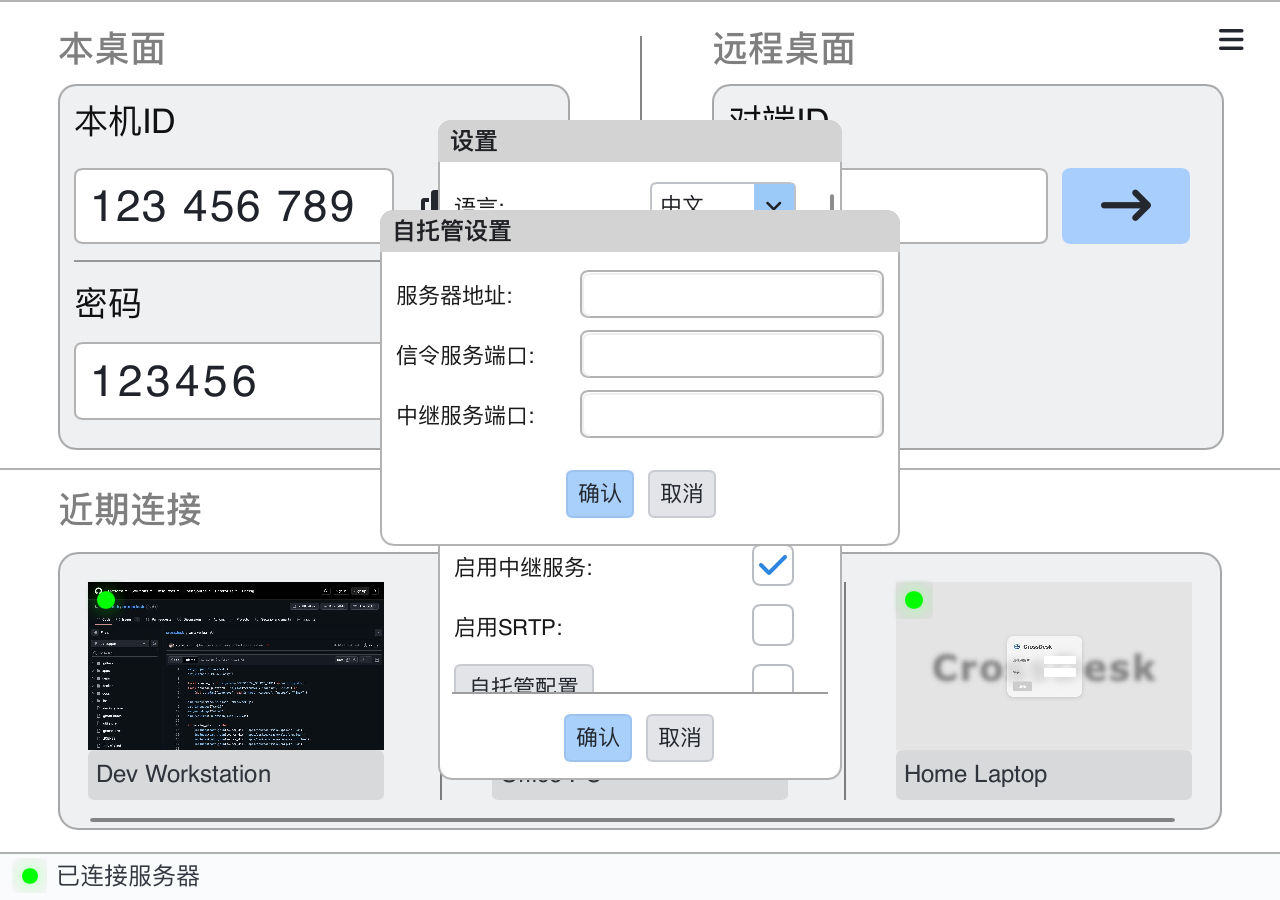
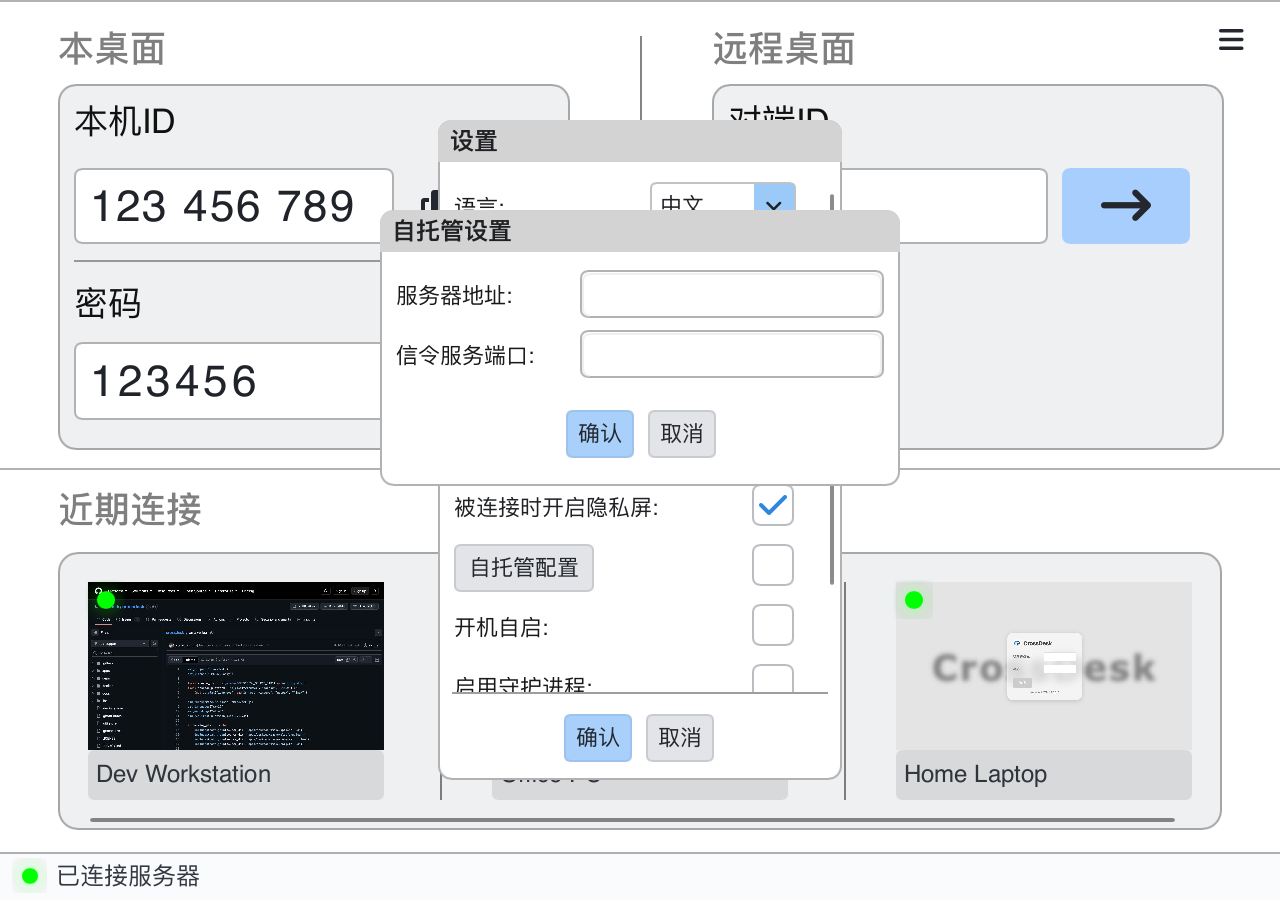
[docs] refresh README guides and desktop and web screenshots

diff --git a/apps/desktop/tests/slint_ui_smoke_test.cpp b/apps/desktop/tests/slint_ui_smoke_test.cpp
@@ -4,6 +4,7 @@
 
 #include <cassert>
 #include <charconv>
+#include <chrono>
 #include <cstdlib>
 #include <fstream>
 #include <iostream>
@@ -146,6 +147,12 @@ bool ConfigureDocumentationDemo(
           std::move(connections)));
   window->set_signal_connected(true);
   window->set_hardware_codec_available(true);
+#if defined(_WIN32) || defined(__APPLE__) || defined(__linux__)
+  window->set_privacy_setting_available(true);
+#endif
+  if (options.page == "about") {
+    window->set_current_version("v1.5.2");
+  }
   return true;
 }
 
@@ -373,8 +380,34 @@ int RunCaptureMode(
   server->hide();
 
   slint::Window *capture_window = &window->window();
-  if (options.page == "stream") {
+  const bool capture_stream =
+      options.page == "stream" || options.page == "stream-video-settings";
+  if (capture_stream) {
     ConfigureStreamCapturePage(stream, options.language);
+    if (!options.demo_assets_path.empty()) {
+      // Reuse a public page capture as an explicitly illustrative remote frame.
+      const auto frame = slint::Image::load_from_path(slint::SharedString(
+          (options.demo_assets_path + "/fixtures/website.png").c_str()));
+      if (frame.size().width == 0 || frame.size().height == 0) {
+        return 8;
+      }
+      stream->set_frame(frame);
+      crossdesk::ui::StreamTab tab;
+      tab.remote_id = "246813579";
+      tab.title = "Office PC";
+      tab.connected = true;
+      stream->set_tabs(
+          std::make_shared<slint::VectorModel<crossdesk::ui::StreamTab>>(
+              std::vector{tab}));
+      stream->set_privacy_can_toggle(true);
+      stream->set_privacy_off(true);
+      stream->window().set_size(
+          slint::LogicalSize(slint::Size<float>{960.0f, 600.0f}));
+    }
+    if (options.page == "stream-video-settings") {
+      stream->set_video_settings_enabled(true);
+      stream->set_video_menu_open(true);
+    }
     window->hide();
     stream->show();
     capture_window = &stream->window();
@@ -388,12 +421,21 @@ int RunCaptureMode(
   }
 
   if (!options.snapshot_path.empty()) {
-    return WriteWindowSnapshot(*capture_window, options.snapshot_path.c_str())
-               ? 0
-               : 7;
+    // Let the native backend apply its window size and display scale before
+    // taking the snapshot; capturing immediately after show() can yield 1x.
+    bool snapshot_written = false;
+    slint::Timer snapshot_timer;
+    snapshot_timer.start(slint::TimerMode::SingleShot,
+                         std::chrono::milliseconds(250), [&] {
+      snapshot_written =
+          WriteWindowSnapshot(*capture_window, options.snapshot_path.c_str());
+      slint::quit_event_loop();
+    });
+    slint::run_event_loop();
+    return snapshot_written ? 0 : 7;
   }
 
-  if (options.page == "stream" || options.page == "server") {
+  if (capture_stream || options.page == "server") {
     slint::run_event_loop();
   } else {
     window->run();

diff --git a/README_EN.md b/README_EN.md
@@ -48,12 +48,13 @@ See the [screenshot notes](docs/images/README.md) for image sources and refresh 
 | Capability | Current support |
 | --- | --- |
 | Cross-platform control | Windows / macOS / Linux desktop control; browser and native iOS controllers |
-| Live video and audio | H.264 / AV1, 30 / 60 fps settings, hardware codec options, and remote audio; availability depends on hardware and build configuration |
+| Live video and audio | H.264 / AV1, hardware codecs, and remote audio; adjust quality, 30 / 60 fps, and video preference during a session |
 | Devices and displays | Recent connections, device aliases, session tabs, and remote display switching |
 | Input and sharing | Keyboard/mouse input, remote cursor synchronization, shortcuts, text clipboard synchronization, and file transfer |
-| Networking and deployment | Direct P2P connections, TURN relay, SRTP media encryption, and self-hosted signaling/relay services |
+| Networking and deployment | Direct P2P connections, TURN relay and forced relay, SRTP media encryption, and self-hosted signaling/relay services |
+| Privacy screen | Enable automatically when connected to, or toggle from the session toolbar; availability depends on the host OS and capture method |
 | Windows protected desktops | CrossDesk Service forwards input on lock screens, sign-in screens, and secure desktops |
-| Linux headless operation | Reuse existing desktops and applications or create separate Xvfb desktops, with capture and input; see [setup](docs/HEADLESS_EN.md) |
+| Linux headless operation | Reuse existing desktops and applications or create separate Xvfb desktops; use the terminal console to check status and change passwords or settings; see [setup](docs/HEADLESS_EN.md) |
 
 Controls and capabilities vary by client. Desktop controls are described below; see the [iOS guide](apps/ios/README.md) for native mobile features.
 
@@ -90,7 +91,7 @@ sudo apt install "./crossdesk-linux-amd64-<version>.deb"
 3. **Verify the password.** Enter the host's current connection password when prompted and confirm. Select **Remember password** if you want to save it.
 4. **Reconnect later.** Previously connected devices appear under **Recent Connections**. Reconnect from a card, edit its alias, or remove its record.
 
-The eye button shows or hides the local password; the pencil button changes it. Use **6 ASCII letters or digits** and stay connected to the server while changing it. Wait for the change to succeed and the client to reconnect, then copy the current password. Controllers that saved the old password must enter it again.
+The eye button shows or hides the local password, the refresh button generates a new random password, and the pencil button lets you edit it. Passwords use **6 ASCII letters or digits**. Stay connected to the server when editing or refreshing a password. Wait for the change to succeed and the client to reconnect, then copy the current password. Controllers that saved the old password must enter it again.
 
 ### Connect from a browser
 
@@ -113,31 +114,51 @@ Switch devices using session tabs. Expand the control bar if it is collapsed, an
 | Mouse | Enable / release remote mouse control |
 | Speaker | Play / mute remote audio |
 | Folder | Select a file to send and view transfer progress |
-| Network statistics | Inspect traffic, packet loss, frame rate, resolution, and direct / relay mode |
+| Video settings | Adjust video quality, capture frame rate, and video preference during the current session |
+| Network statistics | Inspect traffic, packet loss, frame rate, resolution, direct / relay mode, and encryption status |
+| Privacy screen | Enable or disable the host's privacy screen; hover to see its status and available actions |
 | Fullscreen | Enter / exit fullscreen |
 | Disconnect | End the current remote session |
 
 Desktop clients synchronize text clipboard contents. Configure the receiving directory under **Settings → File Save Path**. Closing the main window hides it and keeps the app running; use the system tray or menu-bar exit command to quit completely.
 
-<a id="settings"></a>
+### Adjust video during a session
 
-## Video and connection settings
-
-Open **☰ → Settings** in the top-right corner and click **OK** to save. Configure the session before connecting; some settings are disabled during an active session. Scroll down for self-hosting, startup behavior, and the file save path.
+After connecting, open **Video settings** (the sliders icon) in the toolbar. Choose low / medium / high quality, **30 / 60 fps**, and frame-rate priority / quality priority / balanced adaptation. Changes are sent to the current host without reconnecting; actual results depend on the network, device, and encoder. For older hosts that do not support live video settings, the menu explains the limitation and disables the options.
 
 <p align="center">
-  <img src="docs/images/desktop-settings-en.png" width="720" alt="Example settings interface" />
+  <img src="docs/images/desktop-stream-video-settings-en.png" width="800" alt="Current session video menu with quality, capture frame rate, and video preference; the background is a public page used for demonstration" />
+</p>
+
+<a id="settings"></a>
+
+## Client settings and updates
+
+Open **☰ → Settings** in the top-right corner and click **OK** to save. Configure codecs and connections before connecting; some settings are disabled during an active session. Scroll down for self-hosting, startup behavior, and the file save path. Adjust quality, frame rate, and video preference from the remote session toolbar.
+
+<p align="center">
+  <img src="docs/images/desktop-settings-en.png" width="720" alt="Current client settings with codec, hardware codecs, TURN, forced relay, and automatic privacy screen options" />
 </p>
 
 | Setting | Purpose |
 | --- | --- |
-| Video Quality / Video Capture Frame Rate | Low, medium, or high quality and 30 / 60 fps; actual performance depends on the connection and device |
-| Video Preference | Choose frame-rate priority, quality priority, or balanced adaptation |
+| Language | 中文, English, Русский |
+| Capture Method (Windows) | Auto / DXGI / WGC / GDI; choose Auto for automatic headless adaptation |
 | Video Encode Format | H.264 / AV1; hardware codec availability depends on the platform, device, and build options |
 | Enable TURN Service | Allow relay-assisted connections; check this setting if P2P fails |
-| Self-Hosted Config | Set the host, signaling port, and TURN port, then enable the checkbox |
+| Force Relay | Require relay connections when TURN is enabled; turning TURN off also disables this option |
+| Privacy screen on connect | Automatically enable privacy when this computer is controlled remotely; the controller can toggle it from the session toolbar |
+| Self-Hosted Config | Set the server address and signaling port, then enable the checkbox |
 | Auto Start / Enable Daemon | Configure startup and process supervision; restart as indicated by the UI |
 | File Save Path | Choose where received files are saved |
+
+### Check for updates
+
+The client checks for updates in the background after launch. A new version adds an update indicator to the main window menu. Open **☰ → About** to view the version or click **Check for updates** to check manually. When an update is available, you can view its release notes and open the download page.
+
+<p align="center">
+  <img src="docs/images/desktop-about-en.png" width="720" alt="About dialog with the Check for updates button; version and check result are demonstration data" />
+</p>
 
 <a id="ios"></a>
 
@@ -204,8 +225,6 @@ Host your own signaling and TURN services, then enter their connection details u
 Thanks to [HelloGitHub](https://hellogithub.com/), [Ruanyf Weekly](https://github.com/ruanyf/weekly), and the [LinuxDo](https://linux.do) community for featuring CrossDesk and contributing feedback.
 
 CrossDesk is licensed under [GPL-3.0](LICENSE). See the [Privacy Policy](PRIVACY.md#english).
-
-The Windows packages bundle the unmodified USB Mobile Monitor virtual display driver (usbmmidd_v2) by [Amyuni Technologies](https://www.amyuni.com/) for hosts without a monitor; its license is in `usbmmidd_v2\License.txt` in the install directory.
 
 ### Code signing policy
 

diff --git a/docs/images/README.md b/docs/images/README.md
@@ -4,14 +4,19 @@
 
 ## 来源 / Sources
 
-- 生成日期：2026-09-07。
-- 桌面 UI 源代码：`abc8f907`（`ios-support` 分支），Slint 1.17.1，macOS arm64；截图工具增加了可选的文档演示数据。
+- 桌面与 Web 首页截图生成日期：2026-09-25；`fixtures/source.png` 和 `fixtures/website.png` 保留 2026-09-07 的公开页面截图。
+- 桌面 UI 源代码：`f73a57ba` 加本次工具栏关闭状态斜杠渲染修复，Slint 1.17.1，macOS arm64；本次扩展截图工具以捕获会话画面设置，并等待窗口完成尺寸与缩放初始化后导出。
 - 桌面图片来自 [`slint_ui_smoke_test`](../../apps/desktop/tests/slint_ui_smoke_test.cpp) 的 UI 捕获模式，直接渲染仓库中的 Slint 组件；不是旧版本截图或重新绘制的界面。
 - 主窗口展示“已连接服务器”和三台在线设备的完整示例状态。ID `123 456 789`、密码 `123456`、连接状态及设备记录均为演示数据，不是真实设备凭据或真实远程会话。示例设置不代表应用运行时默认值。
+- 本次主窗口截图包含随机密码刷新按钮；设置截图包含强制中继与自动隐私屏选项；自托管弹窗仅显示服务器地址和信令端口。画质、帧率和画面偏好在会话工具栏的“画面设置”菜单中展示。
+- 会话截图使用 `fixtures/website.png` 作为示例远端画面，展示真实工具栏和打开的画面设置菜单，不建立远程连接。“关于”截图中的 `v1.5.2` 和“已是最新版本”均为演示数据，不代表对线上最新版本的检查结果。
+- 会话工具栏的隐私屏按钮展示“已关闭”状态。关闭标记使用直接绘制的斜线路径，避免软件渲染器将旋转矩形显示为竖线。
 - 设备缩略图使用可公开的页面截图：`fixtures/source.png` 来自 [CrossDesk 的 Xmake 源码页](https://github.com/kunkundi/crossdesk/blob/ios-support/xmake.lua)，`fixtures/website.png` 来自 [CrossDesk 官网](https://www.crossdesk.cn/)，第三张复用 `web-client.png`。它们用于展示缩略图效果，不代表这些页面正在对应的远程电脑上运行。
-- `web-client.png`：2026-09-07 在 [web.crossdesk.cn](https://web.crossdesk.cn/) 截取的连接首页，视口为 1280 × 720，没有发起远程连接。
+- `web-client.png`：2026-09-25 在 [web.crossdesk.cn](https://web.crossdesk.cn/) 重新截取的连接首页，页面显示版本 `2026.09.24.2`，视口为 1280 × 720。ID 与密码输入框为空，没有发起远程连接；使用该图片作为设备缩略图的桌面截图也已重新生成。
 
-Desktop images render the actual Slint components with an illustrative connected state and three populated recent-device cards. The thumbnails are public browser-page captures, not private remote desktops or evidence of live sessions. IDs, device names, statuses, and settings are demonstration data. The Web image captures the public connection page. Native iOS screenshots are not included because this update did not capture a signed app running on a physical device.
+Desktop images were refreshed on 2026-09-25 from UI source `f73a57ba`, using Slint 1.17.1 on macOS arm64. They render actual components with demonstration data, including the refreshed password controls, client settings, live video menu, and manual update check. The source-code and website fixtures remain public page captures from 2026-09-07. The Web connection page was recaptured on 2026-09-25 at 1280 × 720, showing version `2026.09.24.2` with empty credential fields; no remote connection was initiated. Desktop images using its thumbnail were regenerated as well. Desktop IDs, device names, settings, version numbers, and update results are illustrative. Native iOS screenshots are not included because this update did not capture a signed app running on a physical device.
+
+The session images also include this change's toolbar slash-rendering fix. The privacy button shows the off state using diagonal paths that render correctly without rectangle rotation.
 
 ## 文件 / Files
 
@@ -20,11 +25,15 @@ Desktop images render the actual Slint components with an illustrative connected
 | `desktop-main-zh.png` / `desktop-main-en.png` | Main window / 主窗口 | 中文 / English |
 | `desktop-settings-zh.png` / `desktop-settings-en.png` | Settings / 设置 | 中文 / English |
 | `desktop-self-hosted-zh.png` / `desktop-self-hosted-en.png` | Self-hosting / 自托管设置 | 中文 / English |
+| `desktop-stream-video-settings-zh.png` / `desktop-stream-video-settings-en.png` | Session toolbar and video settings / 会话工具栏与画面设置 | 中文 / English |
+| `desktop-about-zh.png` / `desktop-about-en.png` | About and manual update check / 关于与检查更新 | 中文 / English |
 | `web-client.png` | Web connection page / Web 连接首页 | 中文 |
 
-桌面图片为 1280 × 900 PNG，使用 2× 缩放保持文字清晰。Markdown 只设置展示宽度，保持原始比例。设置列表可滚动，截图仅展示首屏。演示配置显示硬件编解码器可用；实际可用性由平台、设备与构建决定。
+主窗口及其弹窗图片为 1280 × 900 PNG，会话图片为 1920 × 1200 PNG，均使用 2× 原生渲染缩放保持文字清晰，未放大旧图。Markdown 只设置展示宽度，保持原始比例。设置列表可滚动，截图仅展示首屏。演示配置显示硬件编解码器可用；实际可用性由平台、设备与构建决定。Windows 专属的采集方式与便携版服务入口不会出现在这些 macOS 截图中。
 
 ## 重新生成 / Regenerate
+
+更新 Web 图片时，在浏览器中打开 [web.crossdesk.cn](https://web.crossdesk.cn/)，等待连接表单和底部版本号加载完成，保持 ID 与密码为空，截取页面视口。当前图片使用 1280 × 720 视口；浏览器导出的 JPEG 仅转换为 PNG，未修改页面布局或内容。替换 `web-client.png` 后，重新生成下方桌面截图以同步设备卡片缩略图，并更新本页的日期与页面版本号。
 
 以下命令在仓库根目录、已完成依赖配置的 macOS 开发环境运行。`sips` 仅将 Slint 导出的 PPM 无损转换为 PNG，不修改 UI。其他平台可以使用支持 PPM 的图片格式转换工具。
 
@@ -36,7 +45,7 @@ mkdir -p build/readme-capture docs/images
 for locale in zh en; do
   language=0
   if [ "$locale" = en ]; then language=1; fi
-  for page in main settings self-hosted; do
+  for page in main settings self-hosted about stream-video-settings; do
     snapshot="$PWD/build/readme-capture/desktop-$page-$locale.ppm"
     SLINT_BACKEND=winit-software SLINT_SCALE_FACTOR=2 \
       CROSSDESK_UI_CAPTURE=1 \
@@ -51,6 +60,6 @@ for locale in zh en; do
 done
 ```
 
-`CROSSDESK_UI_CAPTURE_DEMO_ASSETS` 必须指向包含上述图片的目录。缺失图片会让捕获命令失败，避免再次导出空白缩略图；不设置该变量时，仍保留原有测试状态。
+`CROSSDESK_UI_CAPTURE_DEMO_ASSETS` 必须指向包含上述图片的目录。缺失图片会让捕获命令失败，避免再次导出空白缩略图；不设置该变量时，仍保留原有测试状态。捕获工具会先运行窗口事件循环，等待尺寸与缩放初始化；直接在 `show()` 后截图可能得到 1× 图片。
 
 捕获模式兼容 `/tmp/crossdesk-ui-capture-page` 和 `/tmp/crossdesk-ui-capture-language` 两个旧覆盖文件；如存在，它们会优先于环境变量，运行前请检查。更新后逐张检查文字、布局、敏感信息和文档引用，并同步修改本页日期与源码版本。

diff --git a/README.md b/README.md
@@ -48,12 +48,13 @@ CrossDesk 支持 Windows、macOS、Linux 之间的远程访问，也可从浏览
 | 能力 | 当前支持 |
 | --- | --- |
 | 跨平台控制 | Windows / macOS / Linux 桌面互控；浏览器与原生 iOS 作为控制端 |
-| 实时画面与声音 | H.264 / AV1、30 / 60 fps 设置、硬件编解码选项、远端声音播放；实际能力取决于设备与构建配置 |
+| 实时画面与声音 | H.264 / AV1、硬件编解码、远端声音播放；会话中可调整画质、30 / 60 fps 与画面偏好 |
 | 多设备与多显示器 | 近期连接、设备别名、会话标签与远端显示器切换 |
 | 输入与协作 | 键鼠输入、远端光标同步、组合键、文本剪贴板同步、文件传输 |
-| 网络与部署 | P2P 直连、TURN 中继、SRTP 媒体加密、自托管信令与中继服务 |
+| 网络与部署 | P2P 直连、TURN 中继与强制中继、SRTP 媒体加密、自托管信令与中继服务 |
+| 隐私屏 | 被连接时自动开启，或在会话工具栏切换；可用性取决于被控端系统与采集方式 |
 | Windows 锁屏控制 | 通过 CrossDesk Service 支持锁屏、登录界面及安全桌面的输入转发 |
-| Linux 无头运行 | 复用已有桌面和应用，或创建独立 Xvfb 虚拟桌面；支持画面采集与键鼠控制，见 [运行说明](docs/HEADLESS.md) |
+| Linux 无头运行 | 复用已有桌面和应用，或创建独立 Xvfb 虚拟桌面；终端控制台可查看状态、修改密码和设置，见 [运行说明](docs/HEADLESS.md) |
 
 各客户端的入口和能力有所不同；桌面会话操作见下文，iOS 的具体功能见 [开发说明](apps/ios/README.md)。
 
@@ -90,7 +91,7 @@ sudo apt install "./crossdesk-linux-amd64-<version>.deb"
 3. **完成密码验证。** 按弹窗输入被控电脑当前的连接密码，确认后等待远程画面出现。需要保存密码时勾选“记住密码”。
 4. **再次连接。** 成功连接过的设备会出现在“近期连接”中，可通过卡片重连，也可编辑别名或删除记录。
 
-本机密码旁的眼睛按钮用于显示 / 隐藏密码，铅笔按钮用于修改密码。修改时使用 **6 位数字或英文字母**，并保持连接服务器；等待修改成功、客户端重新连接后，再复制当前密码。已保存旧密码的控制端需重新输入。
+本机密码旁的眼睛按钮用于显示 / 隐藏密码，刷新按钮用于生成新的随机密码，铅笔按钮用于手动修改。密码统一为 **6 位数字或英文字母**。修改或刷新时需保持连接服务器；等待修改成功、客户端重新连接后，再复制当前密码。已保存旧密码的控制端需重新输入。
 
 ### 从浏览器连接
 
@@ -113,31 +114,51 @@ sudo apt install "./crossdesk-linux-amd64-<version>.deb"
 | 鼠标 | 控制 / 释放远端鼠标 |
 | 扬声器 | 播放声音 / 静音 |
 | 文件夹 | 选择文件发送到远端，并查看传输进度 |
-| 网络状态 | 查看流量、丢包率、帧率、分辨率及直连 / 中继状态 |
+| 画面设置 | 在当前会话中调整画面质量、采集帧率与画面偏好 |
+| 网络状态 | 查看流量、丢包率、帧率、分辨率、直连 / 中继及加密状态 |
+| 隐私屏 | 开启或关闭被控电脑的隐私屏；悬停查看当前状态与可用操作 |
 | 全屏 | 进入 / 退出全屏 |
 | 断开连接 | 结束当前远程会话 |
 
 桌面端可同步文本剪贴板。接收文件的位置可在“设置 → 文件保存路径”调整。关闭主窗口会隐藏窗口并保持程序运行；需要完全退出时使用系统托盘或菜单栏中的退出入口。
 
-<a id="settings"></a>
+### 在会话中调整画面
 
-## 调整画面与连接设置
-
-点击主窗口右上角 **☰ → 设置**，修改后点击“确认”保存。建议在建立连接前调整；会话进行中部分选项不可修改。设置列表可向下滚动，查看自托管、启动方式与文件保存路径。
+连接成功后，点击工具栏中的 **画面设置**（滑杆图标），直接选择低 / 中 / 高画质、**30 / 60 fps**，以及帧率优先 / 画质优先 / 平衡。选项会发送给当前被控端，无需断开重连；实际画面效果取决于网络、设备与编码器能力。旧版被控端不支持时，菜单会提示并禁用选项。
 
 <p align="center">
-  <img src="docs/images/desktop-settings-zh.png" width="720" alt="设置界面示例" />
+  <img src="docs/images/desktop-stream-video-settings-zh.png" width="800" alt="当前远程会话的画面设置菜单：画面质量、采集帧率与画面偏好；背景为公开页面演示图" />
+</p>
+
+<a id="settings"></a>
+
+## 客户端设置与更新
+
+点击主窗口右上角 **☰ → 设置**，修改后点击“确认”保存。编码与连接选项建议在建立连接前调整；会话进行中部分选项不可修改。设置列表可向下滚动，查看自托管、启动方式与文件保存路径。画质、帧率和画面偏好在远程会话工具栏中调整。
+
+<p align="center">
+  <img src="docs/images/desktop-settings-zh.png" width="720" alt="当前客户端设置：编码格式、硬件编解码、中继、强制中继与自动隐私屏" />
 </p>
 
 | 设置 | 说明 |
 | --- | --- |
-| 画面质量 / 帧率 | 选择低、中、高画质与 30 / 60 fps；实际帧率取决于网络和设备 |
-| 画面偏好 | 在帧率优先、画质优先、平衡之间选择 |
+| 语言 | 中文、English、Русский |
+| 采集方式（Windows） | 自动 / DXGI / WGC / GDI；无显示器主机使用“自动”启用自动适配 |
 | 视频编码格式 | H.264 / AV1；硬件编解码是否可用取决于平台、硬件与构建选项 |
 | 启用中继服务 | 允许借助 TURN 中继建立连接；P2P 连接失败时先检查此项 |
-| 自托管配置 | 设置服务器地址、信令端口与中继端口，并勾选启用 |
+| 强制中继连接 | 启用中继服务后可勾选，让连接通过中继建立；关闭中继服务会同时关闭此项 |
+| 被连接时开启隐私屏 | 设置本机被远程连接时是否自动启用隐私屏；会话中可从控制端工具栏切换 |
+| 自托管配置 | 填写服务器地址和信令服务端口，并勾选启用 |
 | 开机自启 / 启用守护进程 | 调整启动与进程守护行为，按界面提示重启后生效 |
 | 文件保存路径 | 选择接收文件的目录 |
+
+### 检查更新
+
+客户端启动后会在后台检查版本。发现新版本时，主窗口菜单入口会显示更新提示；打开 **☰ → 关于** 可查看版本，也可点击 **检查更新** 手动检查。发现更新后可查看更新说明并前往下载页面。
+
+<p align="center">
+  <img src="docs/images/desktop-about-zh.png" width="720" alt="关于窗口与检查更新按钮，版本号和检查结果为演示数据" />
+</p>
 
 <a id="ios"></a>
 
@@ -204,8 +225,6 @@ sudo apt install "./crossdesk-linux-amd64-<version>.deb"
 感谢 [HelloGitHub](https://hellogithub.com/)、[阮一峰的科技爱好者周刊](https://github.com/ruanyf/weekly) 与 [LinuxDo](https://linux.do) 社区的推荐、交流与支持。
 
 CrossDesk 使用 [GPL-3.0](LICENSE) 许可。隐私说明见 [隐私政策](PRIVACY.md#中文)。
-
-Windows 安装包内置 [Amyuni Technologies](https://www.amyuni.com/) 的 USB Mobile Monitor 虚拟显示器驱动（usbmmidd_v2），用于无显示器主机；驱动未作任何修改，其许可见安装目录 `usbmmidd_v2\License.txt`。
 
 ### Code signing policy
 

diff --git a/docs/SELF_HOSTING_EN.md b/docs/SELF_HOSTING_EN.md
@@ -44,12 +44,12 @@ For a self-signed deployment, complete the [certificate trust steps](#3-trust-th
 
 1. Disconnect existing sessions and open **☰ → Settings**.
 2. Scroll down and click **Self-Hosted Config**.
-3. Enter **Server Address**, **Signal Service Port**, and **Relay Service Port**, then confirm. Enter only the hostname or IP in the address field, without a URL scheme, path, or port.
+3. Enter **Server Address** and **Signal Service Port**, then confirm. Enter only the hostname or IP in the address field, without a URL scheme, path, or port.
 4. Enable the checkbox beside **Self-Hosted Config**, then click **OK** in the parent settings window.
 5. Configure both the controller and host this way. Once both report a server connection, connect using the host's currently displayed ID.
 
 <p align="center">
-  <img src="images/desktop-self-hosted-en.png" width="720" alt="Current Slint self-hosting dialog for server address, signaling port, and relay port" />
+  <img src="images/desktop-self-hosted-en.png" width="720" alt="Current Slint self-hosting dialog for server address and signaling port" />
 </p>
 
 Recheck the device ID after changing servers. Device identities belong to their server; do not assume an old ID carries over.

diff --git a/docs/SELF_HOSTING.md b/docs/SELF_HOSTING.md
@@ -44,12 +44,12 @@ sudo docker compose ps
 
 1. 断开现有会话，点击主窗口右上角 **☰ → 设置**。
 2. 在设置列表中向下滚动，点击 **自托管配置**。
-3. 填写 **服务器地址**、**信令服务端口**、**中继服务端口**，点击“确认”。地址只填主机名或 IP，不加 `https://`、路径或端口。
+3. 填写 **服务器地址**、**信令服务端口**，点击“确认”。地址只填主机名或 IP，不加 `https://`、路径或端口。
 4. 回到设置窗口，勾选 **自托管配置** 右侧复选框，再点击“确认”保存。
 5. 在控制端和被控端执行相同配置。等待两端都显示“已连接服务器”，再使用被控端当前显示的 ID 发起连接。
 
 <p align="center">
-  <img src="images/desktop-self-hosted-zh.png" width="720" alt="当前 Slint 客户端自托管设置：服务器地址、信令端口、中继端口" />
+  <img src="images/desktop-self-hosted-zh.png" width="720" alt="当前 Slint 客户端自托管设置：服务器地址与信令端口" />
 </p>
 
 切换服务器后请重新核对本机 ID；设备身份与服务端相关，旧服务上的 ID 不应直接套用。
